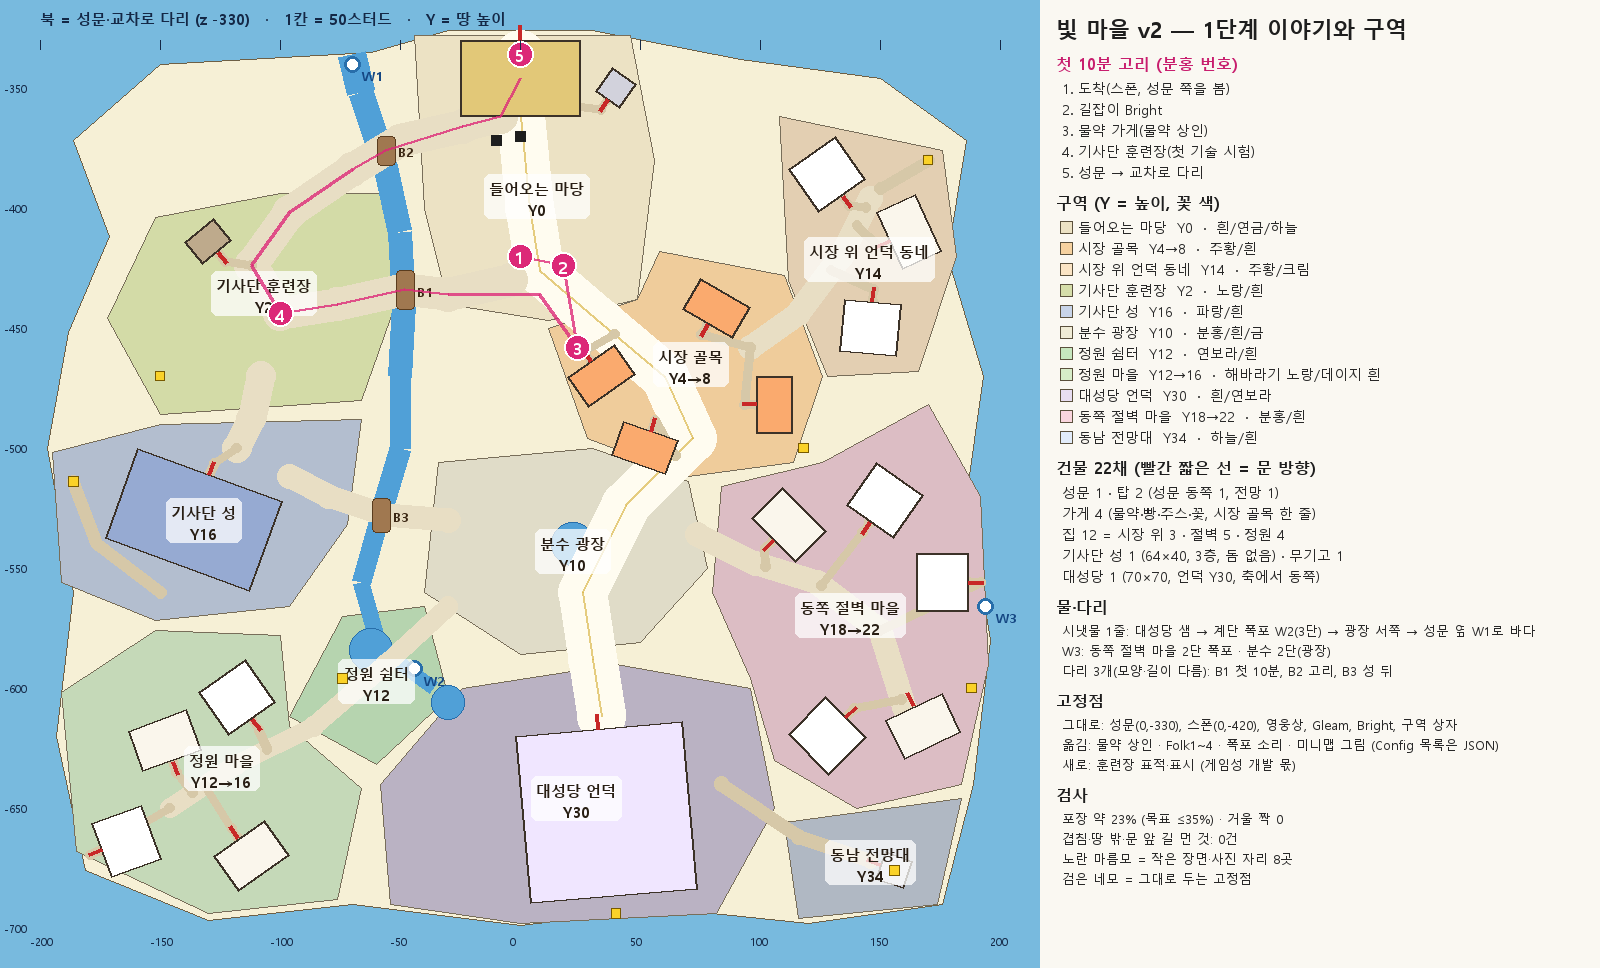
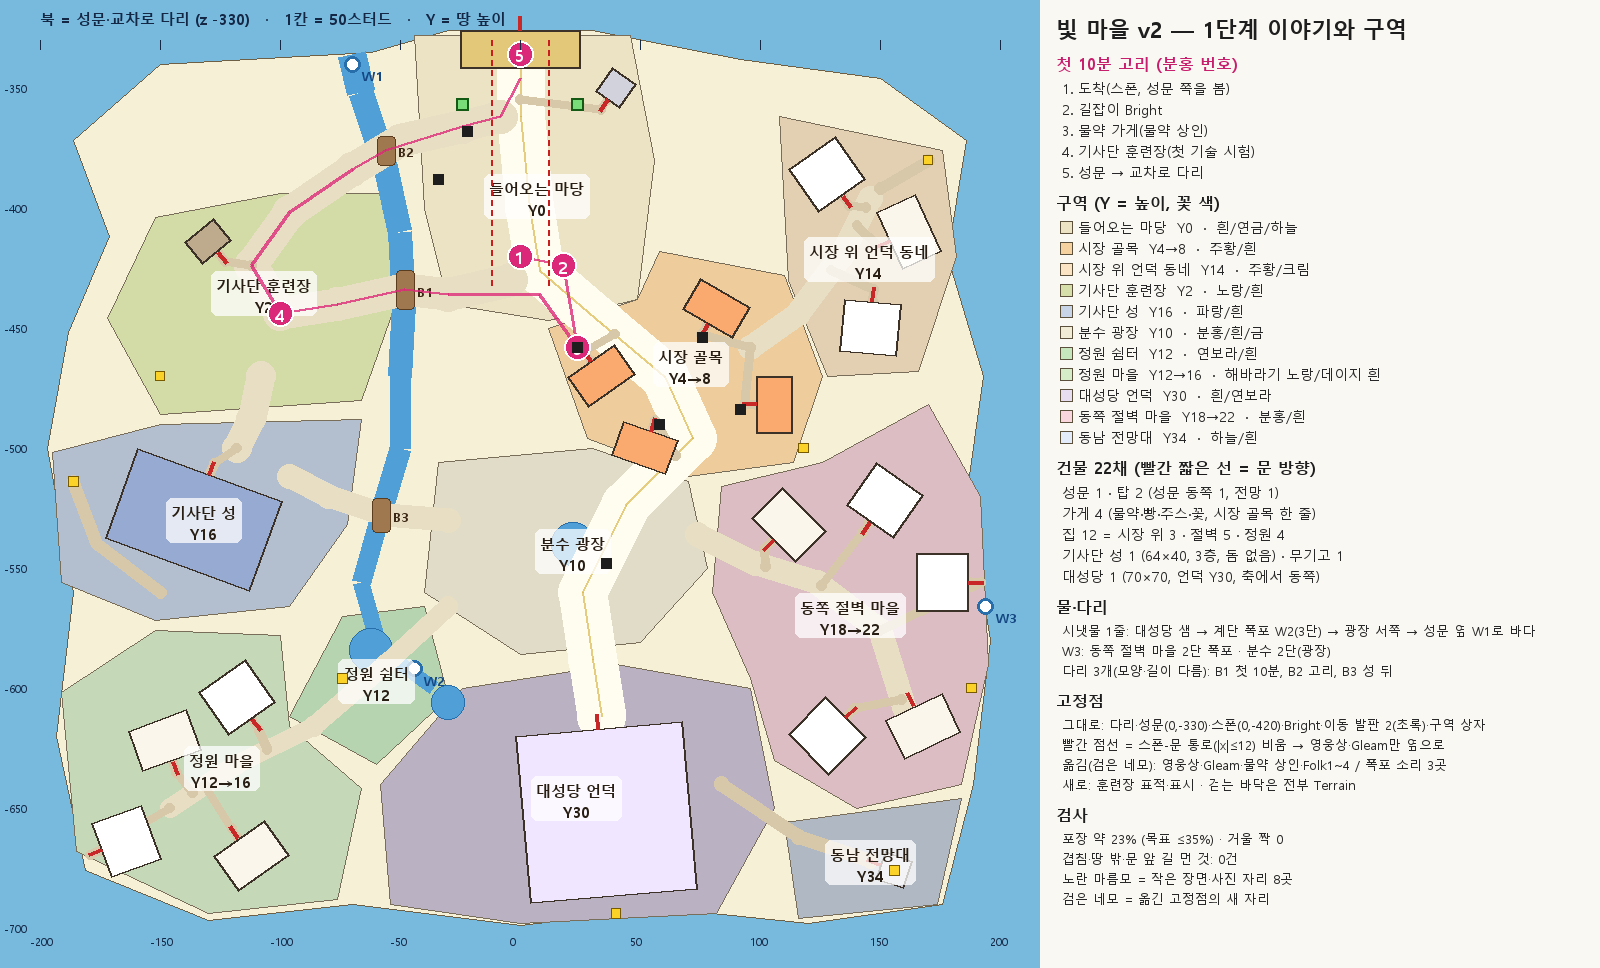
빛 마을 v2 1단계: 검수 고정점 목록 반영(스폰-문 통로 비움, 영웅상·Gleam 옆으로, 성문 Lintel (0,-330) 깊이 16·통로 16×30, 발판 2, 걷는 바닥 Terrain, 옮길 Config 표)

Changed region(s): [[0.6562, 0.7438, 0.9375, 0.9298], [0.2812, 0.031, 0.375, 0.155]]

diff --git a/tools/halo_plan_v2.py b/tools/halo_plan_v2.py
@@ -116,7 +116,7 @@ BRIDGES = [
 
 # ---------------------------------------------------------------- buildings: kind -> footprint (w, d), height, floors, floor height, door (w, h)
 KINDS = {
-    "Gate": (50, 32, 48, 1, 20, (14, 20)),
+    "Gate": (50, 16, 44, 1, 30, (16, 30)),
     "Tower": (12, 12, 36, 3, 8, (4, 7)),
     "Shop": (24, 15, 18, 1, 9, (5, 7.5)),
     "HouseA": (24, 22, 26, 2, 7, (4, 7)),
@@ -128,7 +128,7 @@ KINDS = {
 
 # (id, kind, district, x, z, faces=(x, z) the door looks at, note)
 BUILDINGS = [
-    ("Gate", "Gate", "arrival", 0, -346, (0, -300), "교차로 다리 끝. 통로 14×20, 양쪽으로 지나감"),
+    ("Gate", "Gate", "arrival", 0, -334, (0, -300), "Gate_HaloTown Lintel (0,-330) 그대로. 깊이 16(다리 끝에 걸침), 통로 16×30: 오프닝 카메라 (18,30,-315)→(6,26,-340)가 문 안으로 지나가게"),
     ("Tower_GateEast", "Tower", "arrival", 40, -350, (20, -380), "성문 동쪽 큰 탑(서쪽엔 탑 없음 = 비대칭)"),
     ("Shop_Potion", "Shop", "market", 34, -470, (14, -440), "물약 가게: 스폰에서 보이게 북서를 봄"),
     ("Shop_Bakery", "Shop", "market", 82, -442, (66, -470), "빵집: 골목 북쪽"),
@@ -166,25 +166,31 @@ ROUTE = [(0, -420), (18, -424), (24, -458), (8, -436), (-30, -436), (-48, -434),
          (-96, -402), (-70, -384), (-56, -376), (-24, -366), (-8, -362), (0, -346)]
 
 FIXED_KEEP = [
-    ("성문 / 다리 끝", (0, -330), "Config.Map.Gates, 다리 경로 From (0,-150) To (0,-330)"),
-    ("스폰 + 보는 쪽", (0, -420), "Config.Zones.HaloTown.Spawn / SpawnLook (0,0,-330)"),
-    ("영웅상", (0, -370), "Config.StoryQuests.Landmarks.HeroStatue"),
-    ("Sir Gleam", (-10, -372), "Config.TownNpcs Gleam"),
-    ("Bright", (18, -424), "Config.TownNpcs Bright"),
-    ("구역 경계", None, "Config.Zones.HaloTown Center (0,0,-515) Size 400×370 = x -200..200, z -700..-330; IslandHalo 같은 상자"),
-    ("월드맵 이름 자리", (0, -400), "WorldMap.luau HaloTown 라벨"),
-    ("오프닝 카메라", (0, -410), "Intro.luau Halo = (0,16,-410)"),
+    ("Bridge_Halo", (0, -330), "Map.Decor.Bridge_Halo (0,-150)→(0,-330) 폭 22, 갑판 Y ~0.2: 교차로로 나가는 유일한 길"),
+    ("Gate_HaloTown", (0, -330), "Map.Gates.Gate_HaloTown, PrimaryPart Lintel (Config 1734, MapBuilder가 매번 맞춤)"),
+    ("스폰 + 보는 쪽", (0, -420), "Config.Zones.HaloTown.Spawn (0,0,-420) / SpawnLook (0,0,-330); 스폰 ±6 땅 = Y 0"),
+    ("스폰-문 통로", None, "|x|≤12, z -330..-432 와 (0,-420) 반경 12는 비움(큰 길만, 소품·NPC·동상 없음)"),
+    ("Bright", (18, -424), "Config.TownNpcs Bright (통로 밖, 스폰에서 18)"),
+    ("이동 발판", (-24, -357), "Map.Pads Pad_Halo_SlimeMeadow (-24,0.7,-357) / Pad_Halo_GoblinWoods (24,0.7,-357) 그대로"),
+    ("구역 상자", None, "Config.Zones.HaloTown x -200..200, z -700..-330 그대로(넘침 없음). 가장 높은 땅 Y 34 < 물 구조 MaxRise 42"),
+    ("월드맵 라벨", (0, -400), "WorldMap.luau HaloTown"),
 ]
+# (what, now, new (x, y, z) or None, Config / code to change)
 FIXED_MOVE = [
-    ("물약 상인 PotionHalo", (20.07, -468.17), (24, -458), "Config.TownNpcs PotionHalo At/Look/Y(9 → 5)"),
-    ("Folk1 주스", (38.42, -499.19), (88, -482), "Config.TownNpcs Folk1 At/Look/Y"),
-    ("Folk2 꽃", (6.6, -489.63), (60, -490), "Config.TownNpcs Folk2 At/Look/Y"),
-    ("Folk3 빵", (-6.35, -476.52), (76, -456), "Config.TownNpcs Folk3 At/Look/Y"),
-    ("Folk4 분수", (46, -556), (34, -546), "Config.TownNpcs Folk4 At/Look(분수 (22,-540))/Y 10"),
-    ("폭포 소리 6곳", None, None, "Config.Audio.Ambient.Waterfall.Spots → W1 (-70,1,-340), W2 (-44,20,-592), W3 (194,10,-566)"),
-    ("빛 마을 미니맵 그림", None, None, "Config.UIArt MapHaloTown: 새 마을이 서면 다시 그림(이미지 개발)"),
-    ("훈련장 (새)", None, (-100, -444), "새 Landmark TrainingYard + 허수아비 표적(게임성 개발: 첫 기술 퀘스트가 여기를 가리키게)"),
+    ("영웅상 HeroStatue", (0, -370), (-34, 0, -388), "Config.StoryQuests.Landmarks.HeroStatue (통로 |x|≤12 안이라 서쪽으로 비킴, 큰 길을 봄; H6 Near 16)"),
+    ("Sir Gleam", (-10, -372), (-22, 0, -368), "Config.TownNpcs Gleam At/Look(0,-372) (통로 밖으로 12 비킴, 문 길 옆 그대로)"),
+    ("물약 상인 PotionHalo", (20.07, -468.17), (24, 5, -458), "Config.TownNpcs PotionHalo At/Look(14,-440)/Y 5 (12칸 안 판매 그대로)"),
+    ("Folk3 빵집", (-6.35, -476.52), (76, 7, -454), "Config.TownNpcs Folk3 At/Look(66,-470)/Y 7"),
+    ("Folk1 주스", (38.42, -499.19), (92, 8, -484), "Config.TownNpcs Folk1 At/Look(72,-482)/Y 8"),
+    ("Folk2 꽃", (6.6, -489.63), (58, 8, -490), "Config.TownNpcs Folk2 At/Look(62,-472)/Y 8"),
+    ("Folk4 분수", (46, -556), (36, 10, -548), "Config.TownNpcs Folk4 At/Look(22,-540)/Y 10; 분수 이름 Town_Halo_Fountain3"),
+    ("폭포 소리 6곳", None, None, "Config.Audio.Ambient.Waterfall.Spots → W1 (-70,1,-340), W2 (-44,20,-592), W3 (194,10,-566) 3곳(또는 Decor 아래 이름 …Waterfall)"),
+    ("RoadNorthIsland 띠", None, None, "미니맵 x -8..8, z -600..-330 → 새 큰 길 따라(성문→스폰→시장→광장→대성당)"),
+    ("큰 지도·미니맵", None, None, "WorldMapV2 그림(이미지 생성 2) + Halo MapTiles 다시 찍기(6단계 직전)"),
+    ("훈련장 (새)", None, (-100, 2, -444), "새 Landmark TrainingYard + 허수아비 표적(게임성 개발: 첫 기술 퀘스트가 여기를 가리키게)"),
+    ("오프닝 카메라", None, None, "Intro.luau (18,30,-315)→(6,26,-340), 조각 (0,18,-406): 새 성문 통로 16×30이면 그대로, 3단계 사진으로 확인"),
 ]
+GROUND_RULE = "걷는 바닥은 전부 Terrain(마당·길·광장·건물 앞·다리 끝 땅). 파트 바닥은 땅으로 안 침(MonsterService·ZoneService·KaijuService·LandShadow·SkillFx·Fx). 개발의 WalkGround 태그 전까지 건물 1층 바닥도 Terrain 위에 바로 문턱. 다리만 Decor.Bridge_* 이름."
 
 SCENES = [
     ("폭포 웅덩이 벤치", (-74, -596), "정원 쉼터, W2 계단 폭포를 봄"),
@@ -319,7 +325,7 @@ def checks(blds):
     msgs = []
     for b in blds:
         fp = footprint(b)
-        if not all(inside(p, LAND) for p in fp):
+        if b["kind"] != "Gate" and not all(inside(p, LAND) for p in fp):  # the gate stands on the bridge end
             msgs.append(f"땅 밖: {b['id']}")
         if not inside((b["x"], b["z"]), DIST[b["district"]]["poly"]):
             msgs.append(f"구역 밖: {b['id']} ({b['district']})")
@@ -329,6 +335,17 @@ def checks(blds):
         for j in range(i + 1, len(blds)):
             if poly_overlap(footprint(blds[i]), footprint(blds[j]), gap=4):
                 msgs.append(f"겹침(4 띄움): {blds[i]['id']} - {blds[j]['id']}")
+    # the spawn-gate corridor (|x|<=12, z -330..-432) and the spawn circle stay clear (the gate itself is the passage)
+    for b in blds:
+        if b["kind"] == "Gate":
+            continue
+        fp = footprint(b)
+        cor = [(-12, -330), (12, -330), (12, -432), (-12, -432)]
+        if poly_overlap(fp, cor) or any(math.hypot(px, pz + 420) < 12 for px, pz in fp):
+            msgs.append(f"스폰-문 통로 막음: {b['id']}")
+    for name, now, new, _ in FIXED_MOVE:
+        if new and abs(new[0]) <= 12 and -432 <= new[2] <= -330:
+            msgs.append(f"통로 안 고정점: {name}")
     # mirror pairs: same kind within 12 studs of the x-mirrored other
     pairs = 0
     for i in range(len(blds)):
@@ -436,10 +453,17 @@ def draw_map(blds):
         cx, cy = P(*s["at"])
         d.ellipse([cx - 13, cy - 13, cx + 13, cy + 13], fill=(220, 40, 120), outline=(255, 255, 255), width=2)
         d.text((cx - 5, cy - 11), str(s["n"]), fill=(255, 255, 255), font=font(17, True))
-    # fixed points kept
-    for name, at, _ in FIXED_KEEP:
-        if at and name not in ("스폰 + 보는 쪽", "Bright", "성문 / 다리 끝", "월드맵 이름 자리", "오프닝 카메라"):
-            cx, cy = P(*at)
+    # the spawn-gate corridor (kept clear) and the fixed points
+    a, b = P(-12, -330), P(12, -432)
+    for yy in range(int(a[1]), int(b[1]), 10):
+        d.line([(a[0], yy), (a[0], yy + 5)], fill=(200, 30, 30), width=2)
+        d.line([(b[0], yy), (b[0], yy + 5)], fill=(200, 30, 30), width=2)
+    for px in (-24, 24):
+        cx, cy = P(px, -357)
+        d.rectangle([cx - 6, cy - 6, cx + 6, cy + 6], fill=(120, 220, 120), outline=(20, 90, 20), width=2)
+    for name, now, new, _ in FIXED_MOVE:
+        if new and now:
+            cx, cy = P(new[0], new[2])
             d.rectangle([cx - 5, cy - 5, cx + 5, cy + 5], fill=(30, 30, 30))
     # scenes
     for name, at, _ in SCENES:
@@ -486,14 +510,15 @@ def draw_panel(im, d, blds, stats):
         d.text((x0 + 6, y), ln, fill=(40, 40, 40), font=font(13)); y += 20
     y += 8
     d.text((x0, y), "고정점", fill=(30, 30, 30), font=font(16, True)); y += 26
-    for ln in ["그대로: 성문(0,-330), 스폰(0,-420), 영웅상, Gleam, Bright, 구역 상자",
-               "옮김: 물약 상인 · Folk1~4 · 폭포 소리 · 미니맵 그림 (Config 목록은 JSON)",
-               "새로: 훈련장 표적·표시 (게임성 개발 몫)"]:
+    for ln in ["그대로: 다리·성문(0,-330)·스폰(0,-420)·Bright·이동 발판 2(초록)·구역 상자",
+               "빨간 점선 = 스폰-문 통로(|x|≤12) 비움 → 영웅상·Gleam만 옆으로",
+               "옮김(검은 네모): 영웅상·Gleam·물약 상인·Folk1~4 / 폭포 소리 3곳",
+               "새로: 훈련장 표적·표시 · 걷는 바닥은 전부 Terrain"]:
         d.text((x0 + 6, y), ln, fill=(40, 40, 40), font=font(13)); y += 20
     y += 8
     d.text((x0, y), "검사", fill=(30, 30, 30), font=font(16, True)); y += 26
     for ln in [f"포장 약 {stats['pave'] * 100:.0f}% (목표 ≤35%) · 거울 짝 {stats['pairs']}",
-               f"겹침·땅 밖·문 앞 길 먼 것: {stats['issues']}건", "노란 마름모 = 작은 장면·사진 자리 8곳", "검은 네모 = 그대로 두는 고정점"]:
+               f"겹침·땅 밖·문 앞 길 먼 것: {stats['issues']}건", "노란 마름모 = 작은 장면·사진 자리 8곳", "검은 네모 = 옮긴 고정점의 새 자리"]:
         d.text((x0 + 6, y), ln, fill=(40, 40, 40), font=font(13)); y += 20
 
 
@@ -525,7 +550,9 @@ def main():
         buildings=blds,
         scenes=[dict(name=n, at=list(a), view=v) for n, a, v in SCENES],
         fixed_points=dict(keep=[dict(name=n, at=list(a) if a else None, code=c) for n, a, c in FIXED_KEEP],
-                          move=[dict(name=n, now=list(a) if a else None, new=list(b) if b else None, code=c) for n, a, b, c in FIXED_MOVE]),
+                          move=[dict(name=n, now=list(a) if a else None, new_xyz=list(b) if b else None, code=c) for n, a, b, c in FIXED_MOVE],
+                          ground_rule=GROUND_RULE, pads=[dict(name="Pad_Halo_SlimeMeadow", at=[-24, 0.7, -357]), dict(name="Pad_Halo_GoblinWoods", at=[24, 0.7, -357])],
+                          names=dict(fountain="Town_Halo_Fountain3", lamps="LampLight 속성/태그", collision="DecorPlayerOnly")),
         checks=dict(paving_share=round(pave, 3), mirror_pairs=pairs, issues=msgs, land_area=round(land)),
         rules="A23-112 비대칭, A23-117 구역·이유, A23-106/120 진짜 문·빈 속, 성 돔 없음, 빛살 무늬 금지, acnh 12규칙",
     )
